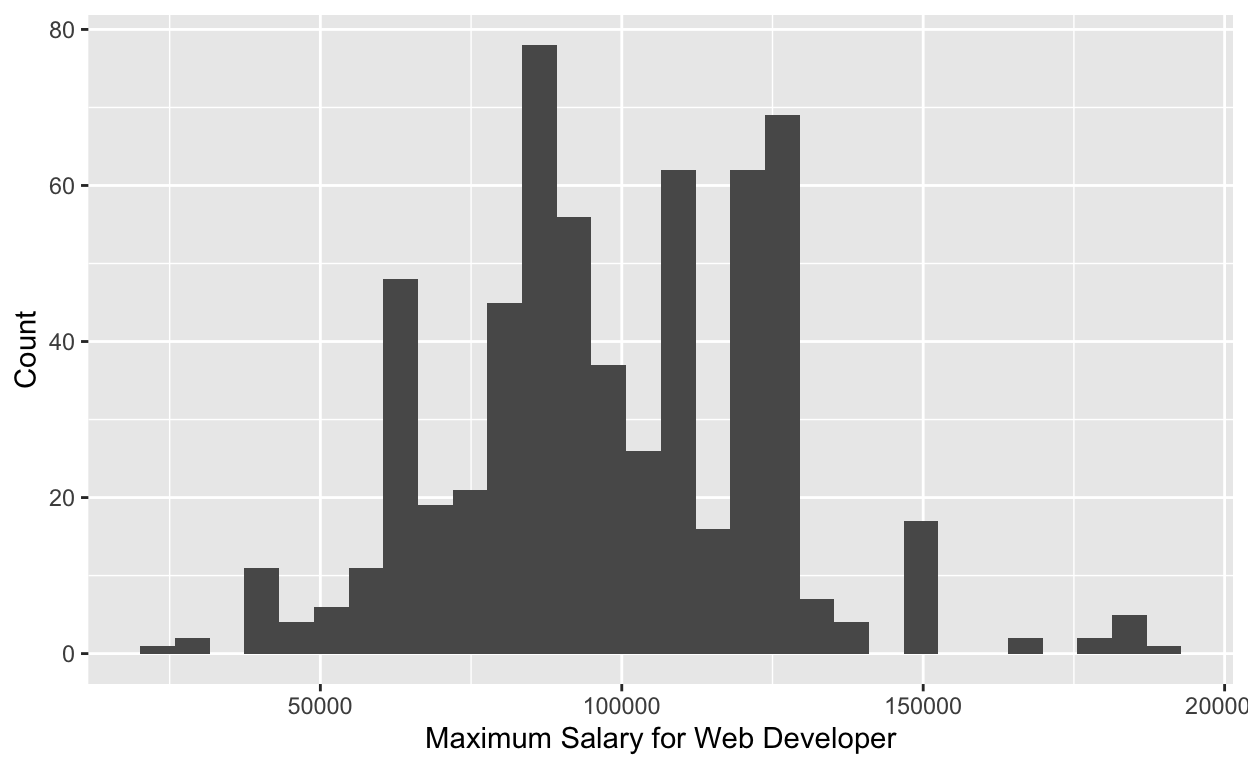
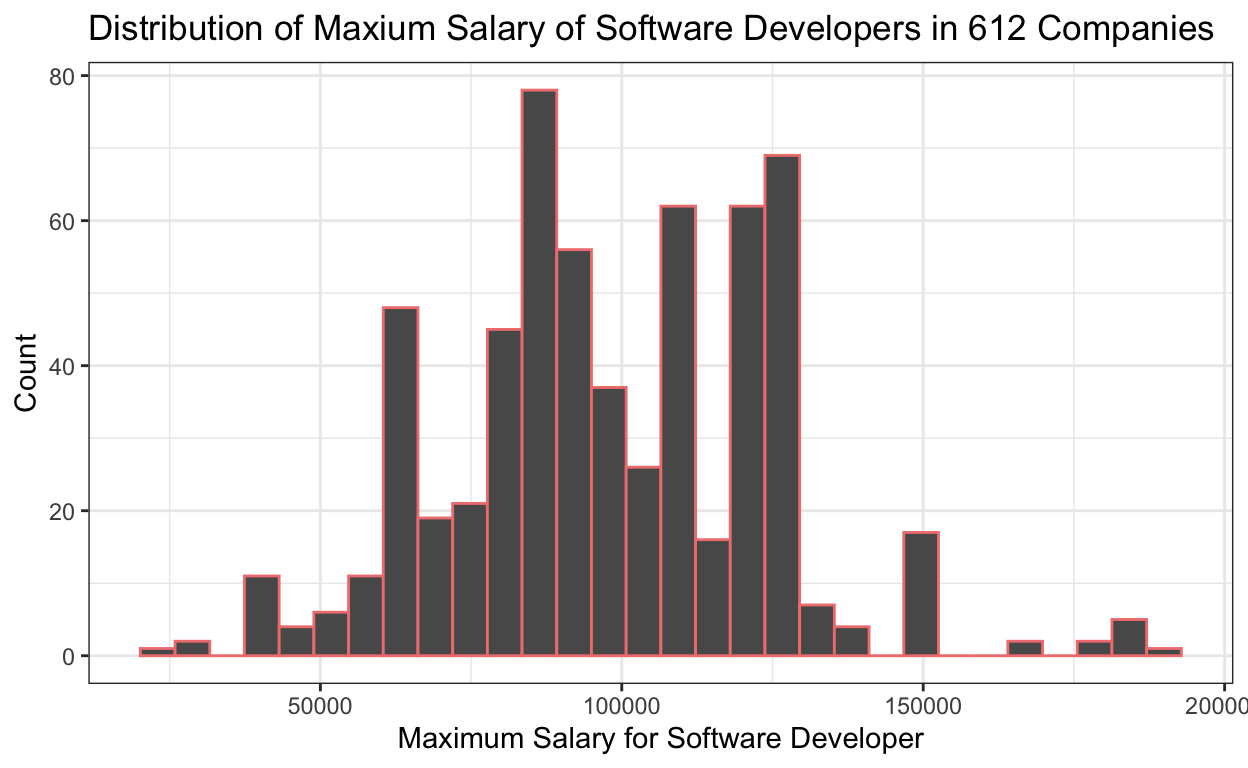
Milestone 4!

diff --git a/index.html b/index.html
@@ -115,7 +115,7 @@ code span.wa { color: #5e5e5e; font-style: italic; } /* Warning */
   <!--/radix_placeholder_rmarkdown_metadata-->
   
   <script type="text/json" id="radix-resource-manifest">
-  {"type":"character","attributes":{},"value":["data/ds_salaries.csv","data/web_dev.csv","index_files/anchor-4.2.2/anchor.min.js","index_files/bowser-1.9.3/bowser.min.js","index_files/distill-2.2.21/template.v2.js","index_files/figure-html5/unnamed-chunk-4-1.png","index_files/figure-html5/unnamed-chunk-5-1.png","index_files/header-attrs-2.17/header-attrs.js","index_files/header-attrs-2.24/header-attrs.js","index_files/jquery-3.6.0/jquery-3.6.0.js","index_files/jquery-3.6.0/jquery-3.6.0.min.js","index_files/jquery-3.6.0/jquery-3.6.0.min.map","index_files/popper-2.6.0/popper.min.js","index_files/tippy-6.2.7/tippy-bundle.umd.min.js","index_files/tippy-6.2.7/tippy-light-border.css","index_files/tippy-6.2.7/tippy.css","index_files/tippy-6.2.7/tippy.umd.min.js","index_files/webcomponents-2.0.0/webcomponents.js"]}
+  {"type":"character","attributes":{},"value":["data/ds_salaries.csv","data/web_dev.csv","index_files/anchor-4.2.2/anchor.min.js","index_files/bowser-1.9.3/bowser.min.js","index_files/distill-2.2.21/template.v2.js","index_files/figure-html5/unnamed-chunk-4-1.png","index_files/figure-html5/unnamed-chunk-5-1.png","index_files/figure-html5/unnamed-chunk-6-1.png","index_files/header-attrs-2.17/header-attrs.js","index_files/header-attrs-2.24/header-attrs.js","index_files/jquery-3.6.0/jquery-3.6.0.js","index_files/jquery-3.6.0/jquery-3.6.0.min.js","index_files/jquery-3.6.0/jquery-3.6.0.min.map","index_files/popper-2.6.0/popper.min.js","index_files/tippy-6.2.7/tippy-bundle.umd.min.js","index_files/tippy-6.2.7/tippy-light-border.css","index_files/tippy-6.2.7/tippy.css","index_files/tippy-6.2.7/tippy.umd.min.js","index_files/webcomponents-2.0.0/webcomponents.js"]}
   </script>
   <!--radix_placeholder_navigation_in_header-->
   <!--/radix_placeholder_navigation_in_header-->
@@ -1517,11 +1517,11 @@ code span.wa { color: #5e5e5e; font-style: italic; } /* Warning */
 </div>
 
 <div class="d-article">
-<h2 id="proposal">Proposal</h2>
-<p>Does the rating of a company on glassdoor have a positive correlation with the maximum salary they offer for their web development role? In this study, I plan to examine whether a higher rating of a company typically indicates that the company pays a higher maximum salary for their web development role.</p>
-<p>I hypothesize that a higher company rating does positively correlate with higher maximum salary given for web developers. Glassdoor is a website where current and former employees can anonymously review companies. Therefore, companies that are rated higher typically have better resources, working conditions, treatment of employees, etc… Not only do employees tend to rate companies higher if they were paid better there, but also companies with better resources (and hence better ratings), typically pay a higher salary.</p>
-<p>My sample consists of 900 companies total, with 612 companies having complete data on their glassdoor rating and their maximum and minimum salary for a web developer. This data was found through web scraping from glassdoor. The explanatory interest is the rating of the company on glassdoor, which is found in 0.1 increments from 1 to 5. My outcome variable of interest is the maximum salary the company has listed for its web development role in USD.</p>
-<p>If the company rating is positively correlated with the maximum salary offered, then this would provide support for my hypothesis. If, on the other hand, I observe that a company’s rating has a negative impact or no impact on its maximum salary offered, then this would provide evidence against my hypothesis. Beyond examining company rating effects on maximum salary for a web developer, I hope to also examine its effects on the minimum salary offered.</p>
+<h2 id="introduction">Introduction</h2>
+<p>Does the rating of a company on glassdoor have a positive correlation with the maximum salary they offer for their web development role? In this study, I plan to examine whether a higher rating of a company typically indicates that the company pays a higher maximum salary for their web development role. I hypothesize that a higher company rating does positively correlate with higher maximum salary for web developers. Glassdoor is a website where current and former employees can anonymously review companies. Not only do employees tend to rate companies higher if they were paid better there, but companies that are rated higher may have better resources and can therefore afford to pay a higher salary.</p>
+<p>My sample consists of data on 900 companies total regarding rating on Glassdoor, job location, maximum and minimum salary for software developers, and more. The explanatory interest is the rating of the company on Glassdoor, which is found in 0.1 increments from 1 to 5. My outcome variable of interest is the maximum salary the company has listed for its software development role in USD. If the company rating is positively correlated with the maximum salary offered, then this would provide support for my hypothesis. Beyond examining company rating effects on maximum salary for a software developer, I hope to also examine its effects on the minimum salary offered.</p>
+<h2 id="data-and-preliminary-analysis">Data and Preliminary Analysis</h2>
+<p>My data is taken from web scraping off Glassdoor. Off the 900 companies in the dataset, there are 612 companies that have complete data on their Glassdoor rating and their maximum and minimum salary for a software developer. Companies with missing values were removed.</p>
 <div class="layout-chunk" data-layout="l-body">
 <div class="sourceCode">
 <pre class="sourceCode r"><code class="sourceCode r"><span><span class='kw'><a href='https://rdrr.io/r/base/library.html'>library</a></span><span class='op'>(</span><span class='va'><a href='https://tidyverse.tidyverse.org'>tidyverse</a></span><span class='op'>)</span></span>
@@ -1554,48 +1554,75 @@ code span.wa { color: #5e5e5e; font-style: italic; } /* Warning */
 <div class="layout-chunk" data-layout="l-body">
 <div class="sourceCode">
 <pre class="sourceCode r"><code class="sourceCode r"><span><span class='va'>salary_rating</span> <span class='op'>&lt;-</span> <span class='fu'><a href='https://rdrr.io/r/stats/na.fail.html'>na.omit</a></span><span class='op'>(</span><span class='va'>salary_rating</span><span class='op'>)</span></span>
-<span></span>
-<span><span class='va'>salary_rating</span> <span class='op'>|&gt;</span> </span>
-<span>  <span class='fu'><a href='https://dplyr.tidyverse.org/reference/select.html'>select</a></span><span class='op'>(</span><span class='va'>company_rating</span>, <span class='va'>max_salary</span><span class='op'>)</span></span></code></pre>
+<span><span class='va'>salary_rating</span></span></code></pre>
 </div>
-<pre><code># A tibble: 612 × 2
-   company_rating max_salary
-            &lt;dbl&gt;      &lt;dbl&gt;
- 1            4.5     125000
- 2            4        81472
- 3            4       120000
- 4            3.7     120000
- 5            3.9     120000
- 6            4.3      78000
- 7            4.1      93230
- 8            4.1      84224
- 9            1.8      83992
-10            4.6      65000
-# ℹ 602 more rows</code></pre>
+<pre><code># A tibble: 612 × 11
+    ...1            id job_title      job_role job_location easy_apply
+   &lt;dbl&gt;         &lt;dbl&gt; &lt;chr&gt;          &lt;chr&gt;    &lt;chr&gt;        &lt;lgl&gt;     
+ 1     1 1008079793339 Software Deve… Web App… Wilton, CT   TRUE      
+ 2     2 1007607350396 Software Deve… Softwar… Remote       TRUE      
+ 3     3 1008062785194 Software Deve… Softwar… Lexington, … TRUE      
+ 4     4 1007190807289 Software Deve… Full St… Albany, NY   TRUE      
+ 5     5 1007961472868 Software Deve… Full St… Kernersvill… TRUE      
+ 6     6 1007923843916 Software Deve… Full St… Duluth, GA   TRUE      
+ 7     7 1008062673549 Software Deve… PHP Ful… Oklahoma Ci… TRUE      
+ 8     8 1008086199196 Software Deve… Web Des… Omaha, NE    TRUE      
+ 9     9 1008091512712 Software Deve… Senior … Remote       TRUE      
+10    10 1008078902333 Software Deve… Web App… Columbia, MO TRUE      
+# ℹ 602 more rows
+# ℹ 5 more variables: company_name &lt;chr&gt;, salary &lt;chr&gt;,
+#   company_rating &lt;dbl&gt;, min_salary &lt;dbl&gt;, max_salary &lt;dbl&gt;</code></pre>
 </div>
-<p>I removed all the rows that contained missing values as most of those missing values were found in the column on company_rating.</p>
+<h2 id="histogram">Histogram</h2>
 <div class="layout-chunk" data-layout="l-body">
 <div class="sourceCode">
-<pre class="sourceCode r"><code class="sourceCode r"><span><span class='fu'><a href='https://ggplot2.tidyverse.org/reference/ggplot.html'>ggplot</a></span><span class='op'>(</span>data <span class='op'>=</span> <span class='va'>salary_rating</span>,</span>
-<span>       mapping <span class='op'>=</span> <span class='fu'><a href='https://ggplot2.tidyverse.org/reference/aes.html'>aes</a></span><span class='op'>(</span>x <span class='op'>=</span> <span class='va'>max_salary</span><span class='op'>)</span><span class='op'>)</span> <span class='op'>+</span></span>
-<span>  <span class='fu'><a href='https://ggplot2.tidyverse.org/reference/geom_histogram.html'>geom_histogram</a></span><span class='op'>(</span><span class='op'>)</span> <span class='op'>+</span> </span>
-<span>  <span class='fu'><a href='https://ggplot2.tidyverse.org/reference/labs.html'>labs</a></span><span class='op'>(</span>x <span class='op'>=</span> <span class='st'>"Maximum Salary for Web Developer"</span>, </span>
-<span>       y <span class='op'>=</span> <span class='st'>"Count"</span><span class='op'>)</span></span></code></pre>
+<pre class="sourceCode r"><code class="sourceCode r"><span><span class='va'>webdev_salary</span> <span class='op'>&lt;-</span> <span class='va'>salary_rating</span> <span class='op'>|&gt;</span> </span>
+<span>  <span class='fu'><a href='https://ggplot2.tidyverse.org/reference/ggplot.html'>ggplot</a></span><span class='op'>(</span>mapping <span class='op'>=</span> <span class='fu'><a href='https://ggplot2.tidyverse.org/reference/aes.html'>aes</a></span><span class='op'>(</span>x <span class='op'>=</span> <span class='va'>max_salary</span><span class='op'>)</span><span class='op'>)</span> <span class='op'>+</span></span>
+<span>  <span class='fu'><a href='https://ggplot2.tidyverse.org/reference/geom_histogram.html'>geom_histogram</a></span><span class='op'>(</span>color<span class='op'>=</span><span class='st'>"lightcoral"</span><span class='op'>)</span> <span class='op'>+</span> </span>
+<span>  <span class='fu'><a href='https://ggplot2.tidyverse.org/reference/labs.html'>labs</a></span><span class='op'>(</span>title <span class='op'>=</span> <span class='st'>"Distribution of Maxium Salary of Software Developers in 612 Companies"</span> , </span>
+<span>       x <span class='op'>=</span> <span class='st'>"Maximum Salary for Software Developer"</span>, </span>
+<span>       y <span class='op'>=</span> <span class='st'>"Count"</span><span class='op'>)</span></span>
+<span></span>
+<span><span class='va'>webdev_salary</span> <span class='op'>+</span> <span class='fu'><a href='https://ggplot2.tidyverse.org/reference/ggtheme.html'>theme_bw</a></span><span class='op'>(</span><span class='op'>)</span></span></code></pre>
 </div>
 <p><img src="index_files/figure-html5/unnamed-chunk-4-1.png" width="624" /></p>
 </div>
+<p>The majority of maximum salaries across the 612 companies appears to fall between <em>75,000 USD to 125,000 USD</em>.</p>
+<h1 id="results">Results</h1>
+<h2 id="scatterplot-visualization-of-maximum-salary">Scatterplot Visualization of Maximum Salary</h2>
 <div class="layout-chunk" data-layout="l-body">
 <div class="sourceCode">
-<pre class="sourceCode r"><code class="sourceCode r"><span><span class='fu'><a href='https://ggplot2.tidyverse.org/reference/ggplot.html'>ggplot</a></span><span class='op'>(</span>data <span class='op'>=</span> <span class='va'>salary_rating</span>,</span>
-<span>       mapping <span class='op'>=</span> <span class='fu'><a href='https://ggplot2.tidyverse.org/reference/aes.html'>aes</a></span><span class='op'>(</span>x <span class='op'>=</span> <span class='va'>company_rating</span>,</span>
+<pre class="sourceCode r"><code class="sourceCode r"><span><span class='va'>maxsalary_plot</span> <span class='op'>&lt;-</span> <span class='va'>salary_rating</span> <span class='op'>|&gt;</span> </span>
+<span>  <span class='fu'><a href='https://ggplot2.tidyverse.org/reference/ggplot.html'>ggplot</a></span><span class='op'>(</span>mapping <span class='op'>=</span> <span class='fu'><a href='https://ggplot2.tidyverse.org/reference/aes.html'>aes</a></span><span class='op'>(</span>x <span class='op'>=</span> <span class='va'>company_rating</span>,</span>
 <span>                     y <span class='op'>=</span> <span class='va'>max_salary</span><span class='op'>)</span><span class='op'>)</span> <span class='op'>+</span></span>
-<span>  <span class='fu'><a href='https://ggplot2.tidyverse.org/reference/geom_point.html'>geom_point</a></span><span class='op'>(</span><span class='op'>)</span> <span class='op'>+</span> <span class='fu'><a href='https://ggplot2.tidyverse.org/reference/geom_smooth.html'>geom_smooth</a></span><span class='op'>(</span><span class='op'>)</span> <span class='op'>+</span> </span>
-<span>  <span class='fu'><a href='https://ggplot2.tidyverse.org/reference/labs.html'>labs</a></span><span class='op'>(</span>x <span class='op'>=</span> <span class='st'>"Company Rating"</span>, </span>
-<span>       y <span class='op'>=</span> <span class='st'>"Maximum Salary"</span><span class='op'>)</span></span></code></pre>
+<span>  <span class='fu'><a href='https://ggplot2.tidyverse.org/reference/geom_point.html'>geom_point</a></span><span class='op'>(</span>color <span class='op'>=</span> <span class='st'>"lightcoral"</span>, alpha <span class='op'>=</span> <span class='fl'>0.8</span><span class='op'>)</span> <span class='op'>+</span> <span class='fu'><a href='https://ggplot2.tidyverse.org/reference/geom_smooth.html'>geom_smooth</a></span><span class='op'>(</span>method <span class='op'>=</span> <span class='st'>"lm"</span><span class='op'>)</span> <span class='op'>+</span> </span>
+<span>  <span class='fu'><a href='https://ggplot2.tidyverse.org/reference/labs.html'>labs</a></span><span class='op'>(</span>title <span class='op'>=</span> <span class='st'>"Relationship Between Company Rating and Maximum Salary"</span>, </span>
+<span>       x <span class='op'>=</span> <span class='st'>"Company Rating"</span>, </span>
+<span>       y <span class='op'>=</span> <span class='st'>"Maximum Salary for Software Developer"</span><span class='op'>)</span></span>
+<span></span>
+<span><span class='va'>maxsalary_plot</span> <span class='op'>+</span> <span class='fu'><a href='https://ggplot2.tidyverse.org/reference/ggtheme.html'>theme_bw</a></span><span class='op'>(</span><span class='op'>)</span></span></code></pre>
 </div>
 <p><img src="index_files/figure-html5/unnamed-chunk-5-1.png" width="624" /></p>
 </div>
-<p>From this scatterplot and the smooth line, we see that there is a slightly negative correlation between the rating of a company on Glassdoor and the maximum salary that they pay for their standard web development job.</p>
+<p>From this scatterplot and the smooth line, we see that there is a slightly <strong>negative correlation</strong> between the rating of a company on Glassdoor and the maximum salary that they pay for their standard web development job. Thus, having a higher company rating tends to correlate with companies having a lower maximum salary, <strong>disproving my hypothesis</strong>.</p>
+<p>A reason for this could be because larger, well-known companies tend to have higher ratings, and due to their well-establish name they do not need to offer high salaries to retain employees. In addition, companies may receive higher ratings because they provide better benefits, resources, and/or support for their employees. Therefore, much of the monetary cost per employee goes into these benefits, and thus could be deducted from the salary.</p>
+<h2 id="scatterplot-visualization-of-minimum-salary">Scatterplot Visualization of Minimum Salary</h2>
+<div class="layout-chunk" data-layout="l-body">
+<div class="sourceCode">
+<pre class="sourceCode r"><code class="sourceCode r"><span><span class='va'>minsalary_plot</span> <span class='op'>&lt;-</span> <span class='va'>salary_rating</span> <span class='op'>|&gt;</span> </span>
+<span>  <span class='fu'><a href='https://ggplot2.tidyverse.org/reference/ggplot.html'>ggplot</a></span><span class='op'>(</span>mapping <span class='op'>=</span> <span class='fu'><a href='https://ggplot2.tidyverse.org/reference/aes.html'>aes</a></span><span class='op'>(</span>x <span class='op'>=</span> <span class='va'>company_rating</span>,</span>
+<span>                     y <span class='op'>=</span> <span class='va'>min_salary</span><span class='op'>)</span><span class='op'>)</span> <span class='op'>+</span></span>
+<span>  <span class='fu'><a href='https://ggplot2.tidyverse.org/reference/geom_point.html'>geom_point</a></span><span class='op'>(</span>color <span class='op'>=</span> <span class='st'>"green4"</span>, alpha <span class='op'>=</span> <span class='fl'>0.8</span><span class='op'>)</span> <span class='op'>+</span> <span class='fu'><a href='https://ggplot2.tidyverse.org/reference/geom_smooth.html'>geom_smooth</a></span><span class='op'>(</span>method <span class='op'>=</span> <span class='st'>"lm"</span><span class='op'>)</span> <span class='op'>+</span> </span>
+<span>  <span class='fu'><a href='https://ggplot2.tidyverse.org/reference/labs.html'>labs</a></span><span class='op'>(</span>title <span class='op'>=</span> <span class='st'>"Relationship Between Company Rating and Minimum Salary"</span>, </span>
+<span>       x <span class='op'>=</span> <span class='st'>"Company Rating"</span>, </span>
+<span>       y <span class='op'>=</span> <span class='st'>"Minimum Salary for Software Developer"</span><span class='op'>)</span></span>
+<span></span>
+<span><span class='va'>minsalary_plot</span> <span class='op'>+</span> <span class='fu'><a href='https://ggplot2.tidyverse.org/reference/ggtheme.html'>theme_bw</a></span><span class='op'>(</span><span class='op'>)</span></span></code></pre>
+</div>
+<p><img src="index_files/figure-html5/unnamed-chunk-6-1.png" width="624" /></p>
+</div>
+<p>Out of curiosity, I also examined the relationship between the company rating and the minimum salary for software developer. Although the linear line has a slightly negative slope, it is <strong>almost horizontal</strong>. Therefore, the rating of a company on Glassdoor has almost no impact on the minimum salary. Note that this means that company rating has more of a impact on the maximum salary of a software developer than the minimum salary.</p>
+<p>The reason for this could that there exists a standard minimum salary for software developers that companies try to meet regardless of other factors. Additionally, companies are unrestricted in how high the salaries they pay can go, but they cannot offer salaries too low as it is unethical and would hurt their reputation. Having a minimum salary that is lower than a potential set standard could also drive away potential employees, which incentivizes companies to price their minimum salary at a standard range regardless of their rating.</p>
 <div class="sourceCode" id="cb3"><pre class="sourceCode r distill-force-highlighting-css"><code class="sourceCode r"></code></pre></div>
 <!--radix_placeholder_article_footer-->
 <!--/radix_placeholder_article_footer-->
